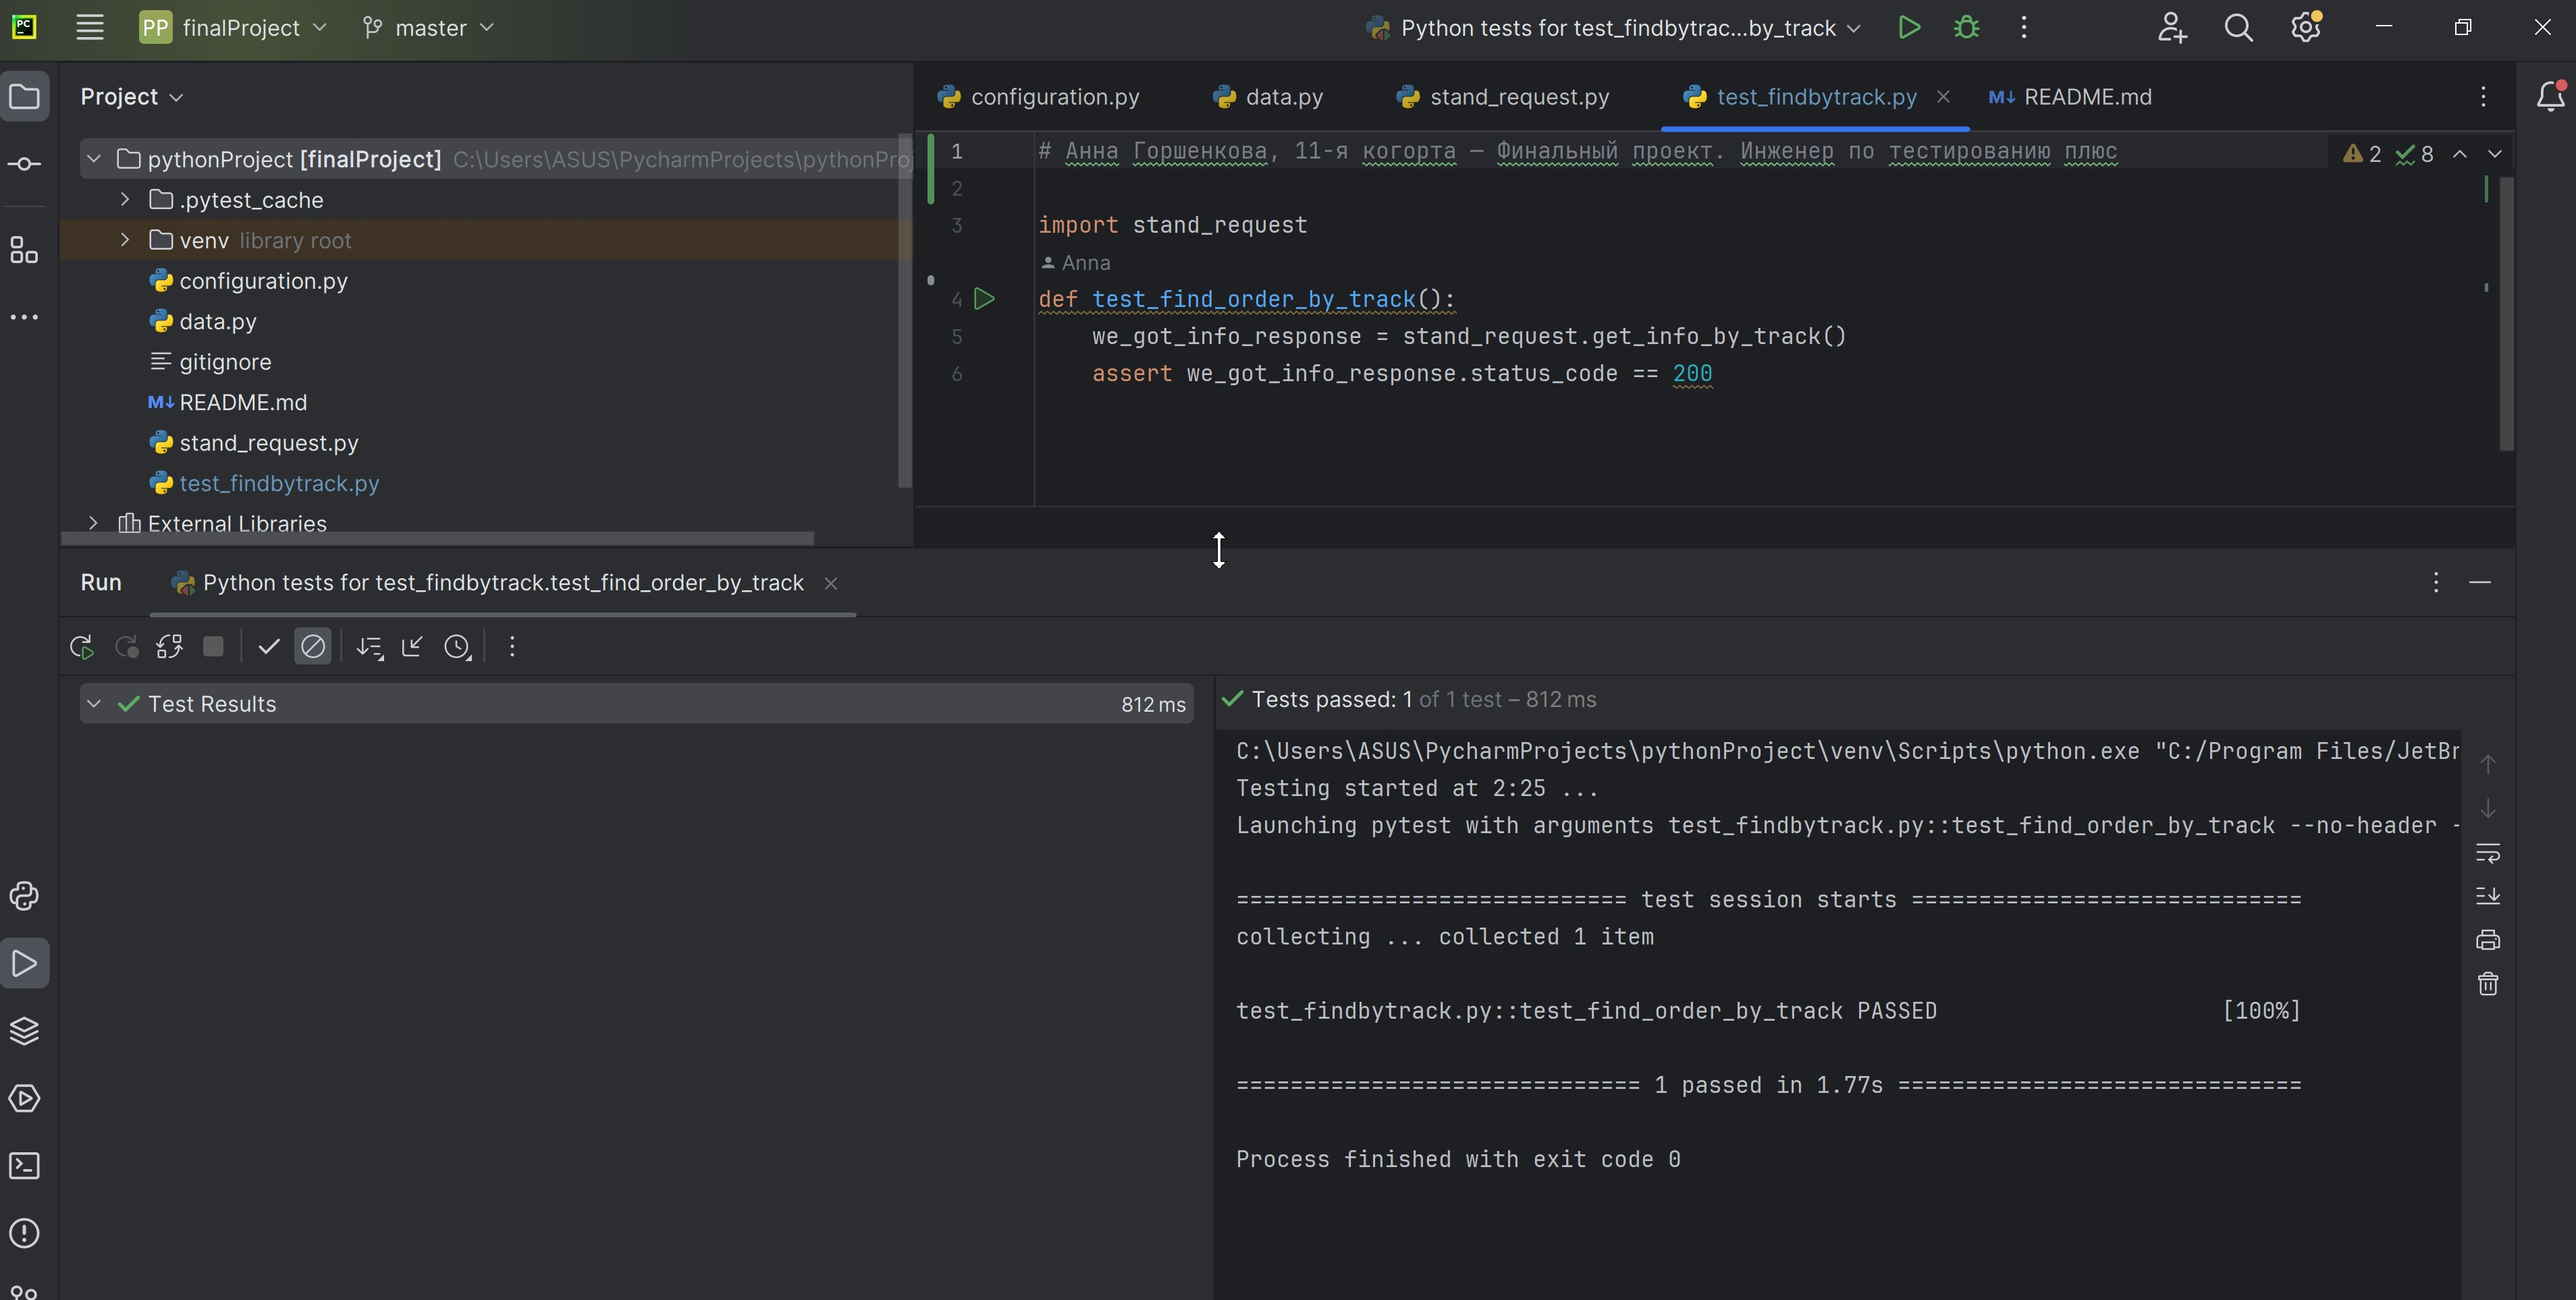
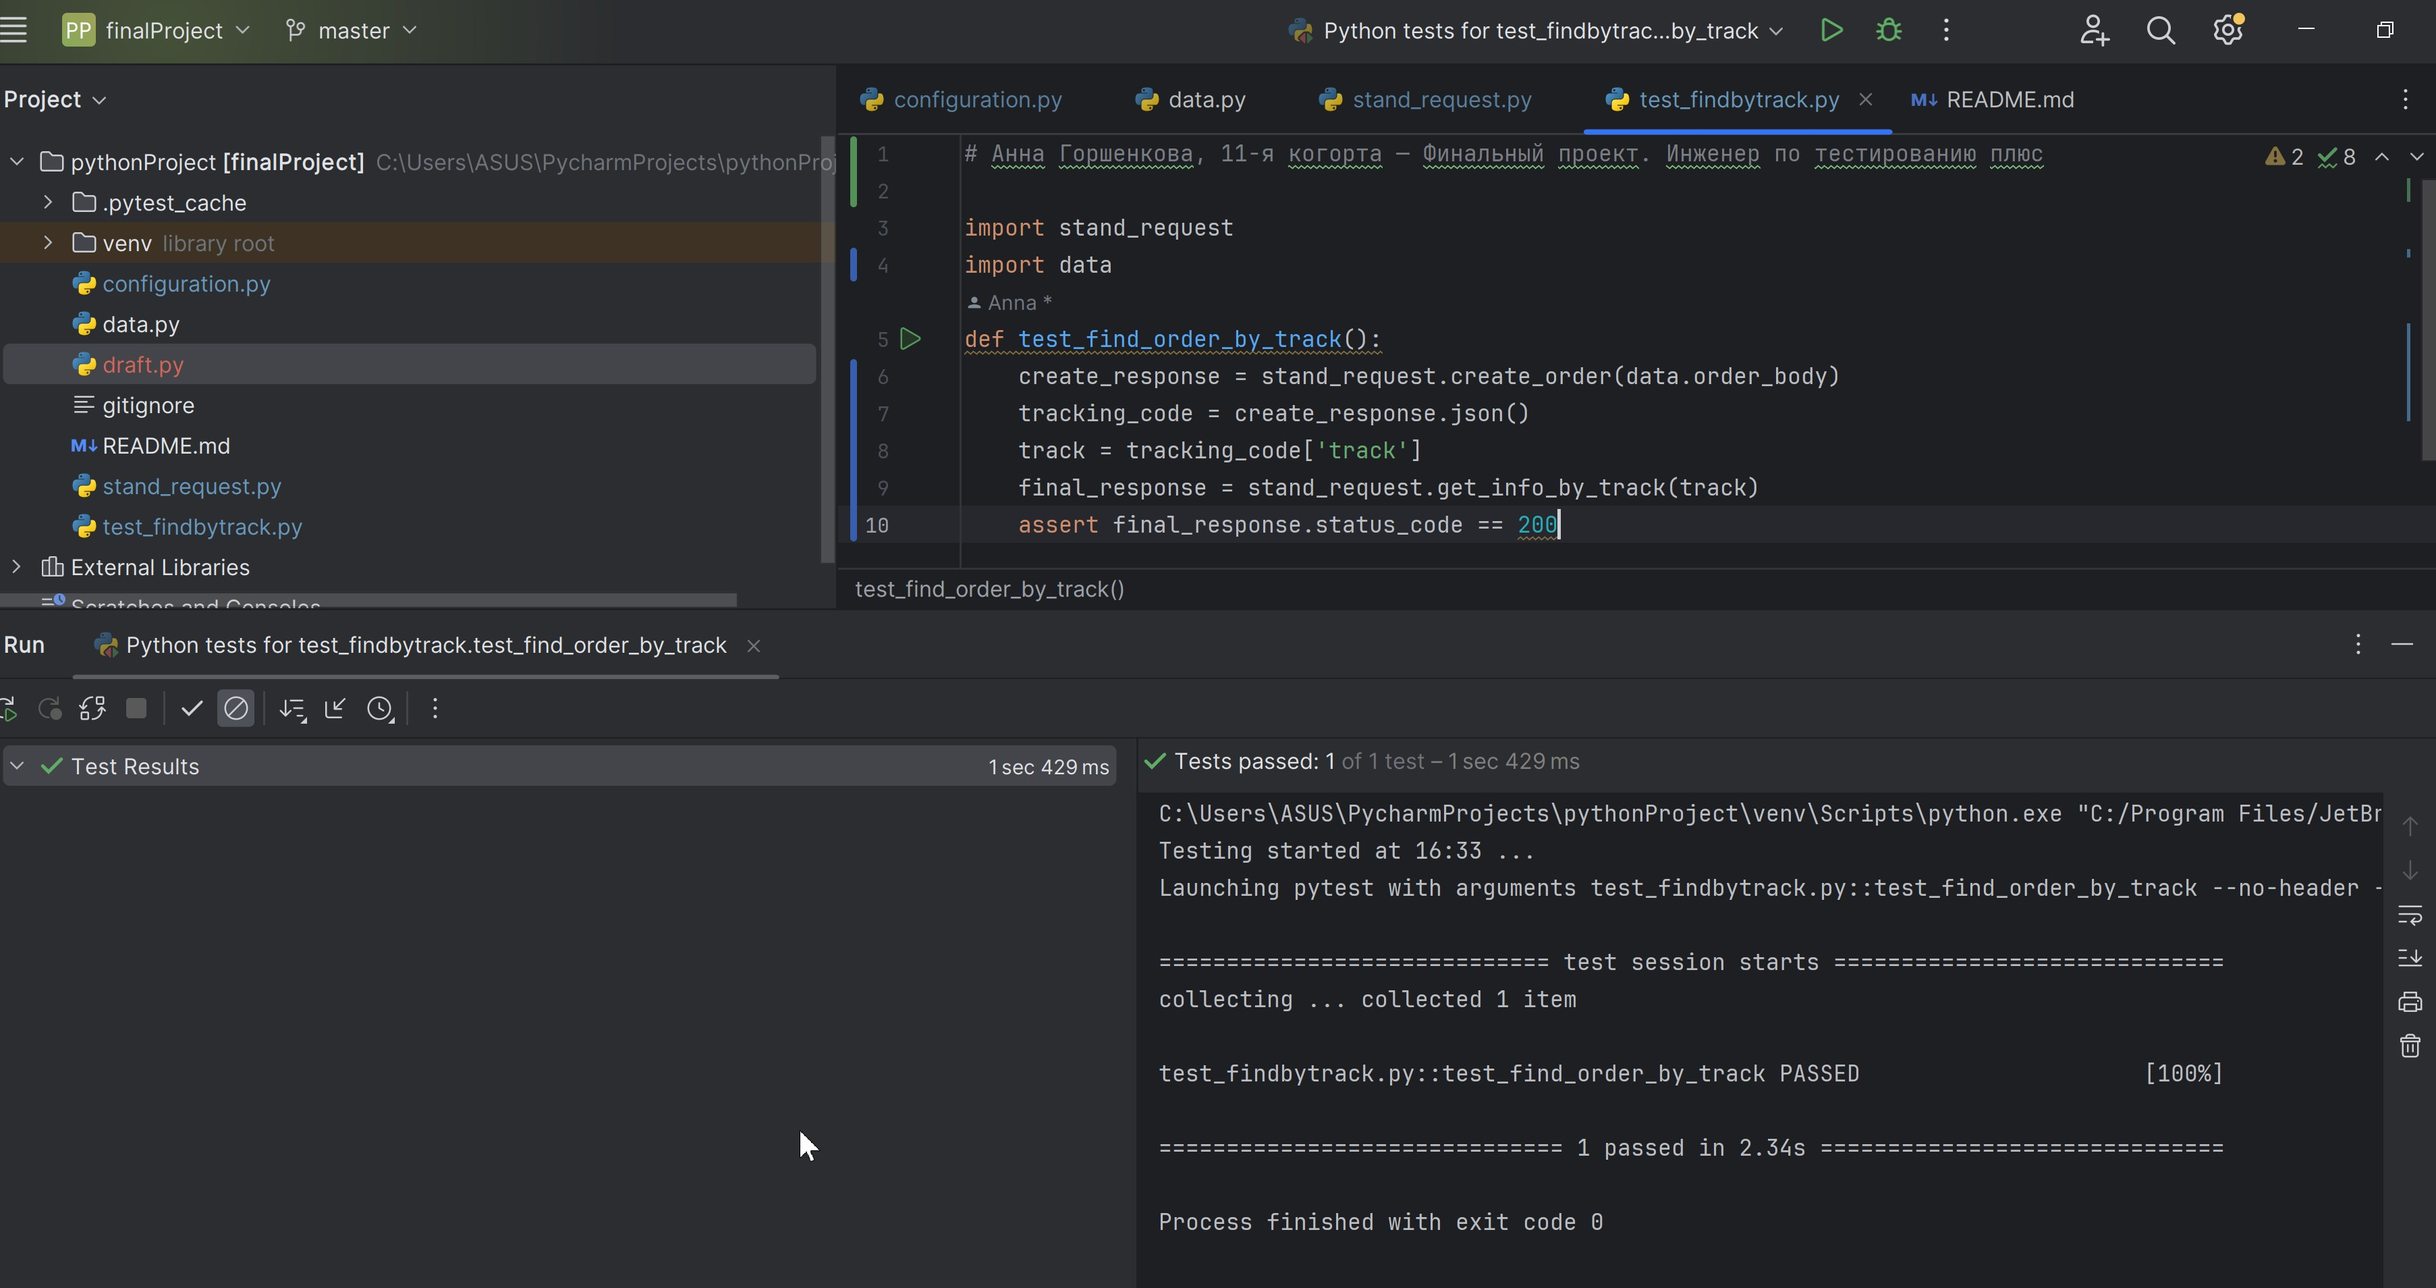
after review

diff --git a/test_findbytrack.py b/test_findbytrack.py
@@ -1,5 +1,10 @@
-import stand_request
+# Анна Горшенкова, 11-я когорта — Финальный проект. Инженер по тестированию плюс
 
+import stand_request
+import data
 def test_find_order_by_track():
-    we_got_info_response = stand_request.get_info_by_track()
-    assert we_got_info_response.status_code == 200
+    create_response = stand_request.create_order(data.order_body)
+    tracking_code = create_response.json()
+    track = tracking_code['track']
+    final_response = stand_request.get_info_by_track(track)
+    assert final_response.status_code == 200

diff --git a/stand_request.py b/stand_request.py
@@ -1,18 +1,10 @@
 import configuration
 import requests
-import data
 
 def create_order(body):
     return requests.post(configuration.URL_SERVICE + configuration.CREATE_ORDER_PATH,
                          json=body)
 
-response = create_order(data.order_body)
-tracking_code = response.json()
-track = tracking_code['track']
-
-def get_info_by_track():
+def get_info_by_track(track_number):
     return requests.get(configuration.URL_SERVICE + configuration.GET_ORDER_BY_TRACK_PATH,
-                        params={"t":track})
-
-
-
+                        params={"t":track_number})

diff --git a/configuration.py b/configuration.py
@@ -1,4 +1,4 @@
 # сюда нужно вставить ссылку на сайт после генерации
-URL_SERVICE = "https://ac497014-7e4a-42b6-a702-d603b3844d2a.serverhub.praktikum-services.ru/"
+URL_SERVICE = "https://05c23804-cf2e-4113-bc3c-feca5686d2a3.serverhub.praktikum-services.ru/"
 CREATE_ORDER_PATH = "api/v1/orders"
 GET_ORDER_BY_TRACK_PATH = "api/v1/orders/track"
